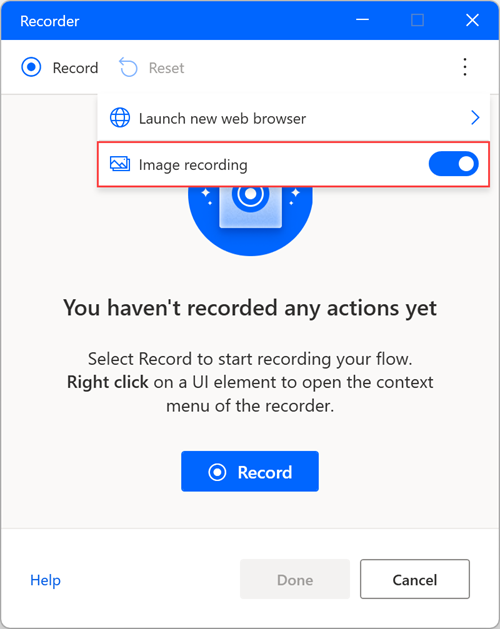
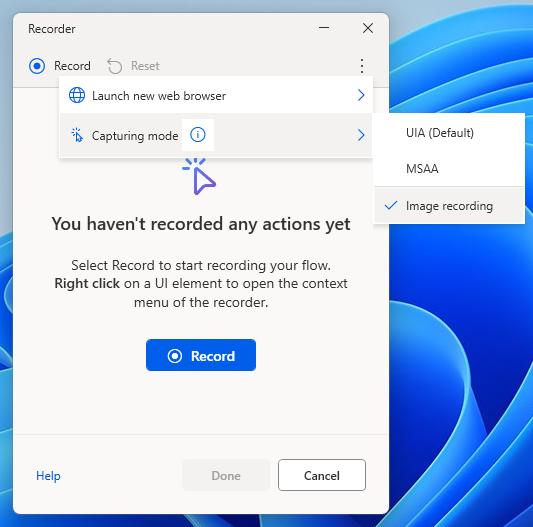
update images

diff --git a/articles/desktop-flows/ui-elements.md b/articles/desktop-flows/ui-elements.md
@@ -5,7 +5,7 @@ author: mattp123
 ms.service: power-automate
 ms.subservice: desktop-flow
 ms.topic: article
-ms.date: 05/20/2025
+ms.date: 05/23/2025
 ms.author: nimoutzo
 ms.reviewer: matp
 contributors:
@@ -30,7 +30,7 @@ Each one of these action groups accepts a different type of UI elements. UI auto
 
 To add a new UI element to your flow, add a new UI element through an action or the UI elements pane, highlight the respective element, and press **Ctrl + Left click**. When the selection is finished, select **Done**.
 
-:::image type="content" source="media/ui-elements/capturing-ui-elements1.png" alt-text="Screenshot of a highlighted element.":::
+:::image type="content" source="media/ui-elements/capturing-ui-elements.png" alt-text="Screenshot of a highlighted element.":::
 
 > [!NOTE]
 > The UI element picker now supports capturing both UI Automation (UIA) and Microsoft Active Accessibility (MSAA) selectors when working with desktop UI elements. By default, the picker operates in UIA mode. You can change the capturing mode using the menu located in the top-right corner of the UI element picker. Select MSAA to target legacy applications that don't expose UIA selectors. When MSAA mode is enabled, a banner appears in the UI element picker to indicate that you're capturing MSAA selectors. Learn more about the difference between UIA and MSAA selectors in [UI elements types](#ui-elements-types).

diff --git a/articles/desktop-flows/recording-flow.md b/articles/desktop-flows/recording-flow.md
@@ -5,7 +5,7 @@ author: mattp123
 ms.service: power-automate
 ms.subservice: desktop-flow
 ms.topic: how-to
-ms.date: 05/20/2025
+ms.date: 05/23/2025
 ms.author: matp
 ms.reviewer: matp
 contributors:
@@ -145,7 +145,7 @@ To record flows using images:
 
 1. Select the dots icon on the right side of the recorder dialog, and then enable **Image recording**. After enabling this option, select **Record** to start recording actions using image recognition.
 
-    ![Screenshot of the Image recording button.](./media/recording-flow/image-recording-button1.png "Screenshot of the Image recording button.")
+    ![Screenshot of the Image recording button.](./media/recording-flow/image-recording-button.png "Screenshot of the Image recording button.")
 
      Upon clicking on an element, an image is captured automatically and saved with a default editable name. To preview the captured image, hover, or select the **preview icon**.
 
